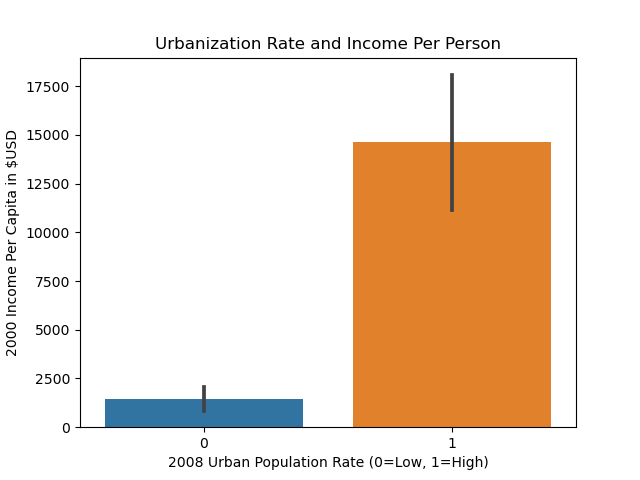
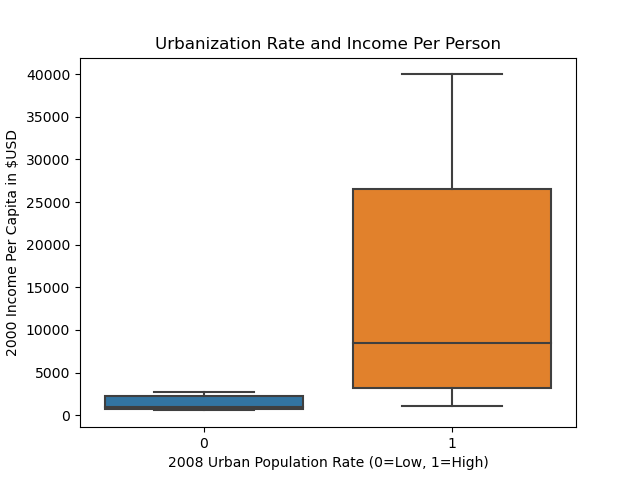
change bar to box plot

diff --git a/rmp/week2.py b/rmp/week2.py
@@ -83,11 +83,11 @@ print(urbhilowpercent)
 print()
 
 # Make a scatter plot to visualize the relationship
-fig1, bar1 = plt.subplots()
-bar1 = seaborn.barplot(x="urbhilow", y="incomeperperson", data=data, ax=bar1)
-bar1.set_xlabel('2008 Urban Population Rate (0=Low, 1=High)')
-bar1.set_ylabel('2000 Income Per Capita in $USD')
-bar1.set_title('Urbanization Rate and Income Per Person')
+fig1, box1 = plt.subplots()
+box1 = seaborn.boxplot(x="urbhilow", y="incomeperperson", data=data, ax=box1)
+box1.set_xlabel('2008 Urban Population Rate (0=Low, 1=High)')
+box1.set_ylabel('2000 Income Per Capita in $USD')
+box1.set_title('Urbanization Rate and Income Per Person')
 fig1.savefig('rmp/urbanincome.png')
 
 # Perform an OLS Regression
